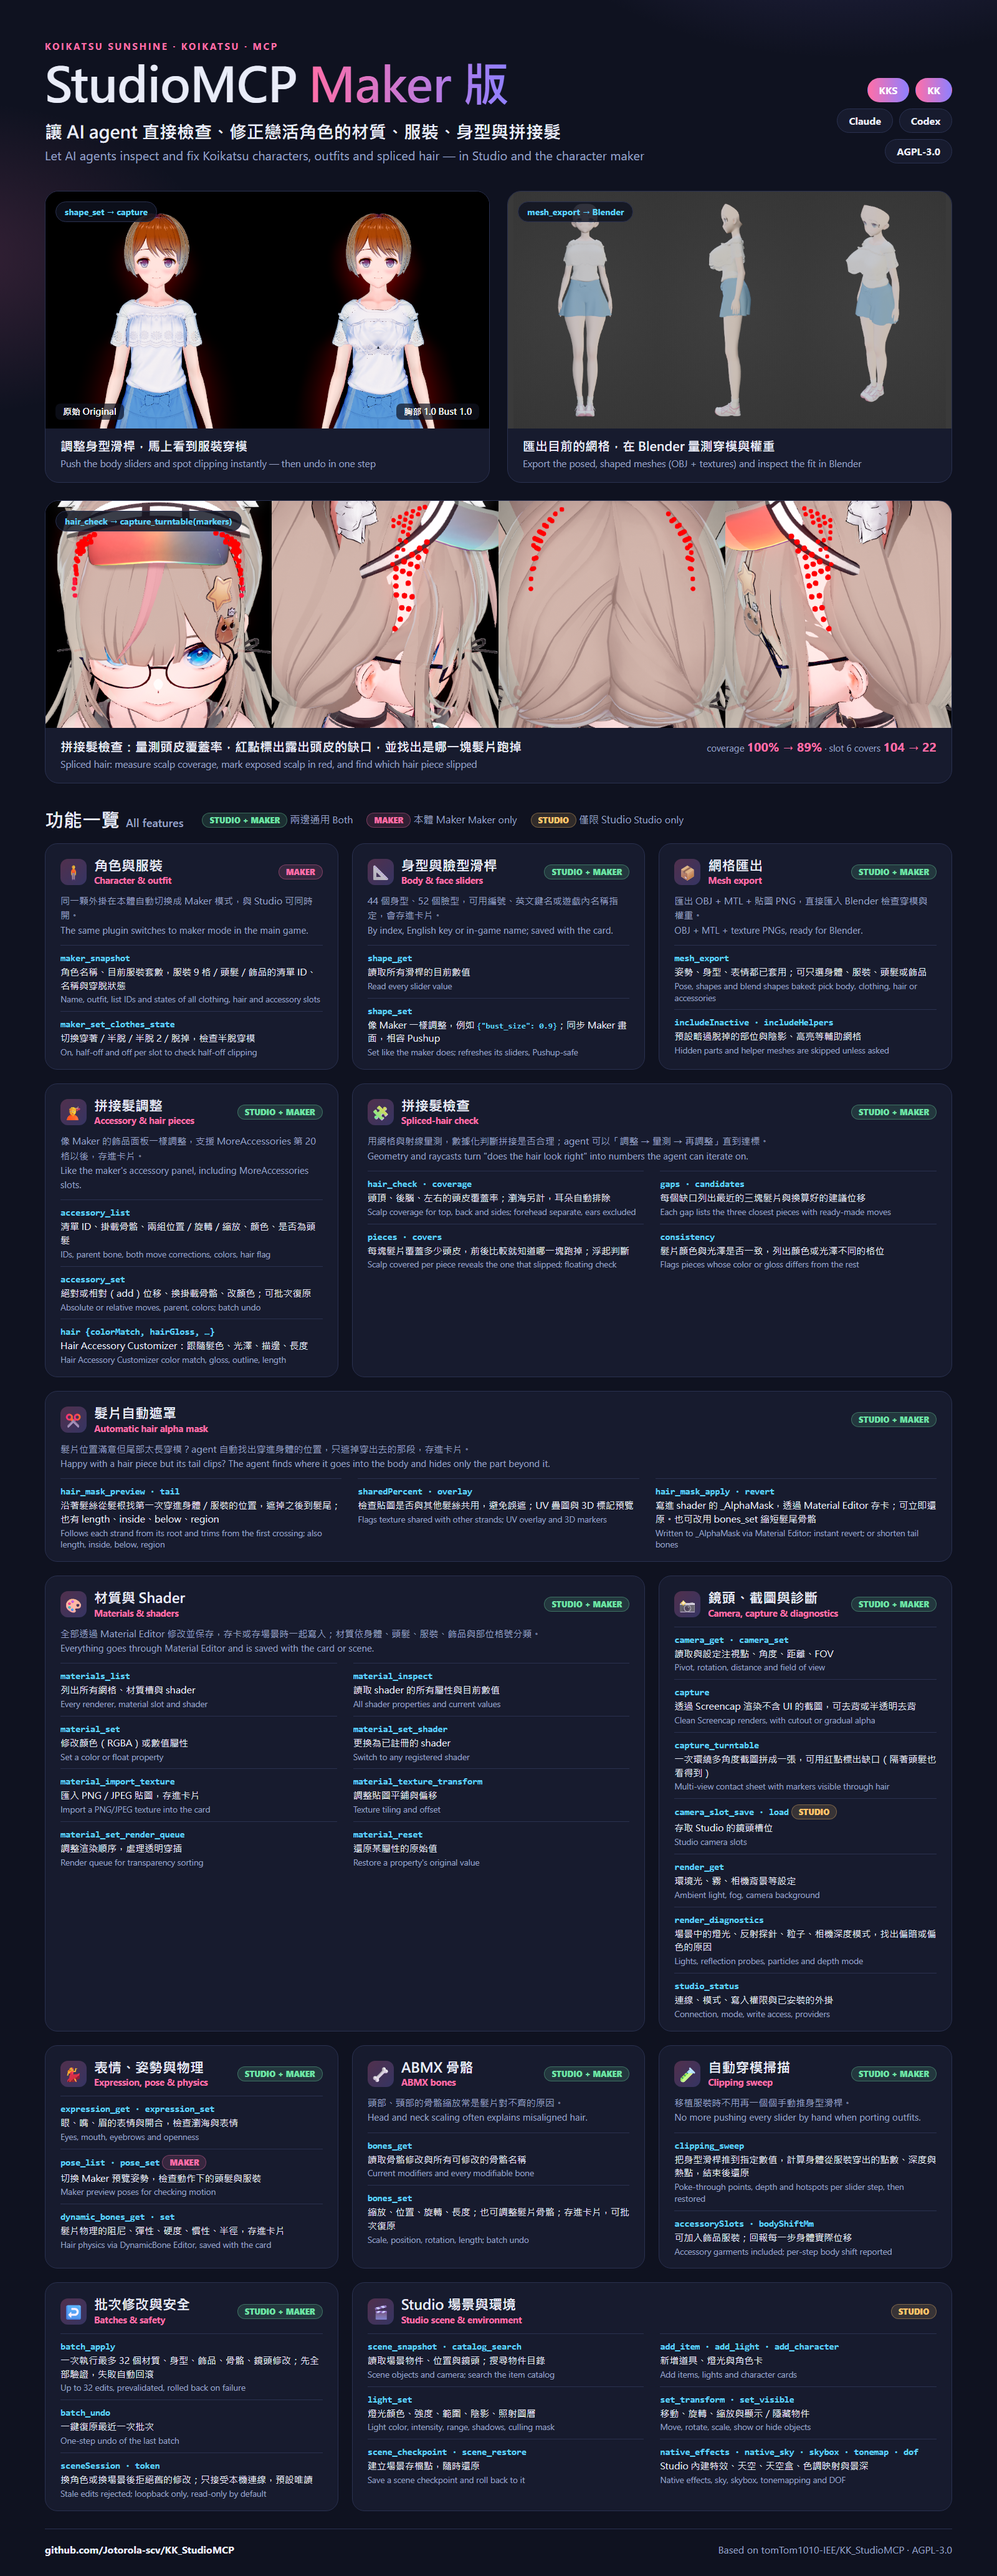
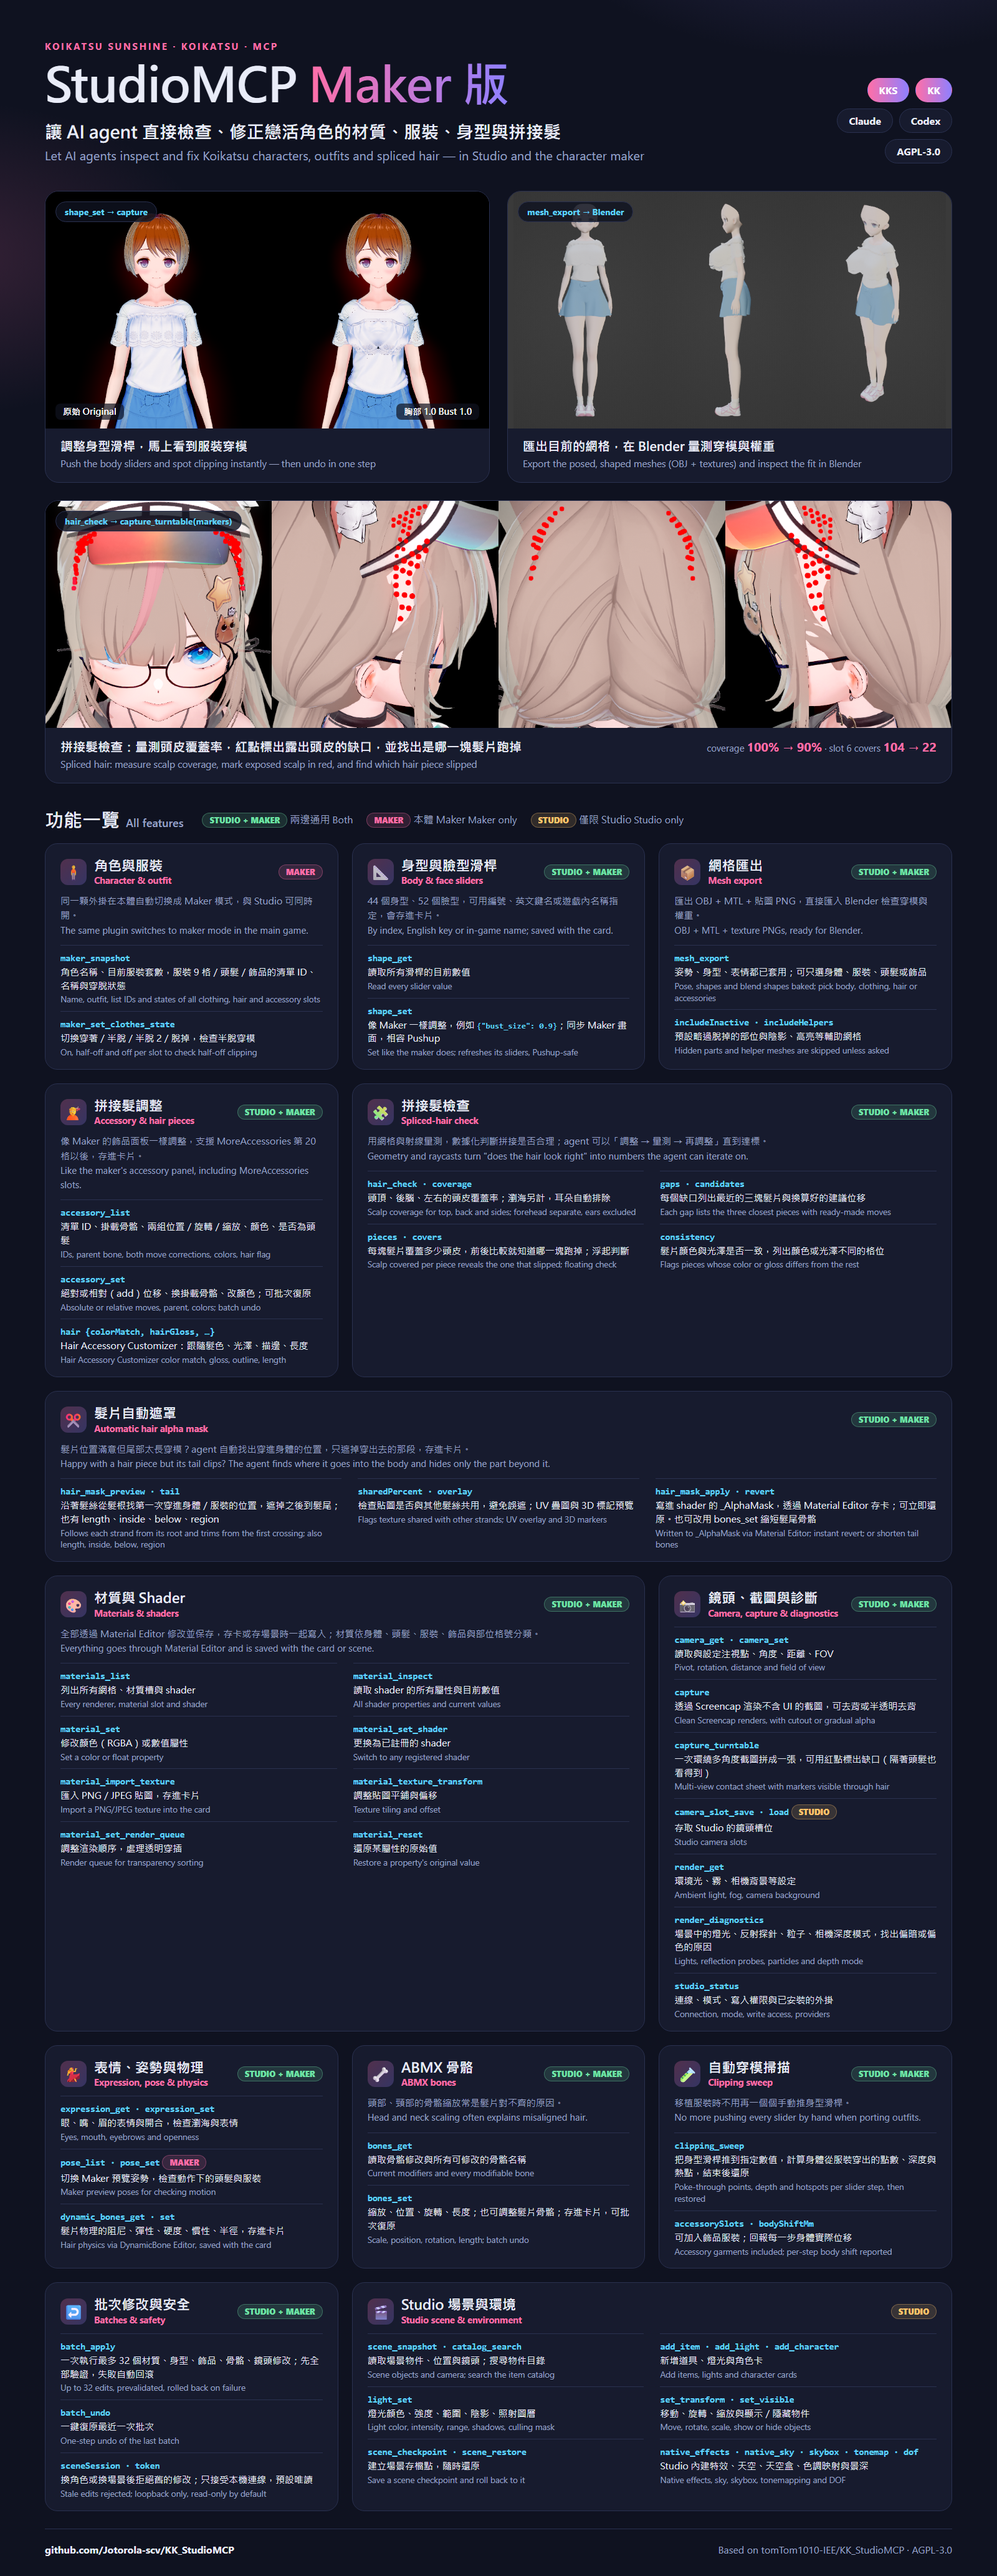
Intro image: retake the spliced-hair screenshot without ghosting

diff --git a/docs/intro/intro.html b/docs/intro/intro.html
@@ -137,7 +137,7 @@
         <div class="cap-zh">拼接髮檢查：量測頭皮覆蓋率，紅點標出露出頭皮的缺口，並找出是哪一塊髮片跑掉</div>
         <div class="cap-en en">Spliced hair: measure scalp coverage, mark exposed scalp in red, and find which hair piece slipped</div>
       </div>
-      <div class="stat en">coverage <b>100% → 89%</b> · slot 6 covers <b>104 → 22</b></div>
+      <div class="stat en">coverage <b>100% → 90%</b> · slot 6 covers <b>104 → 22</b></div>
     </div>
   </section>
 
